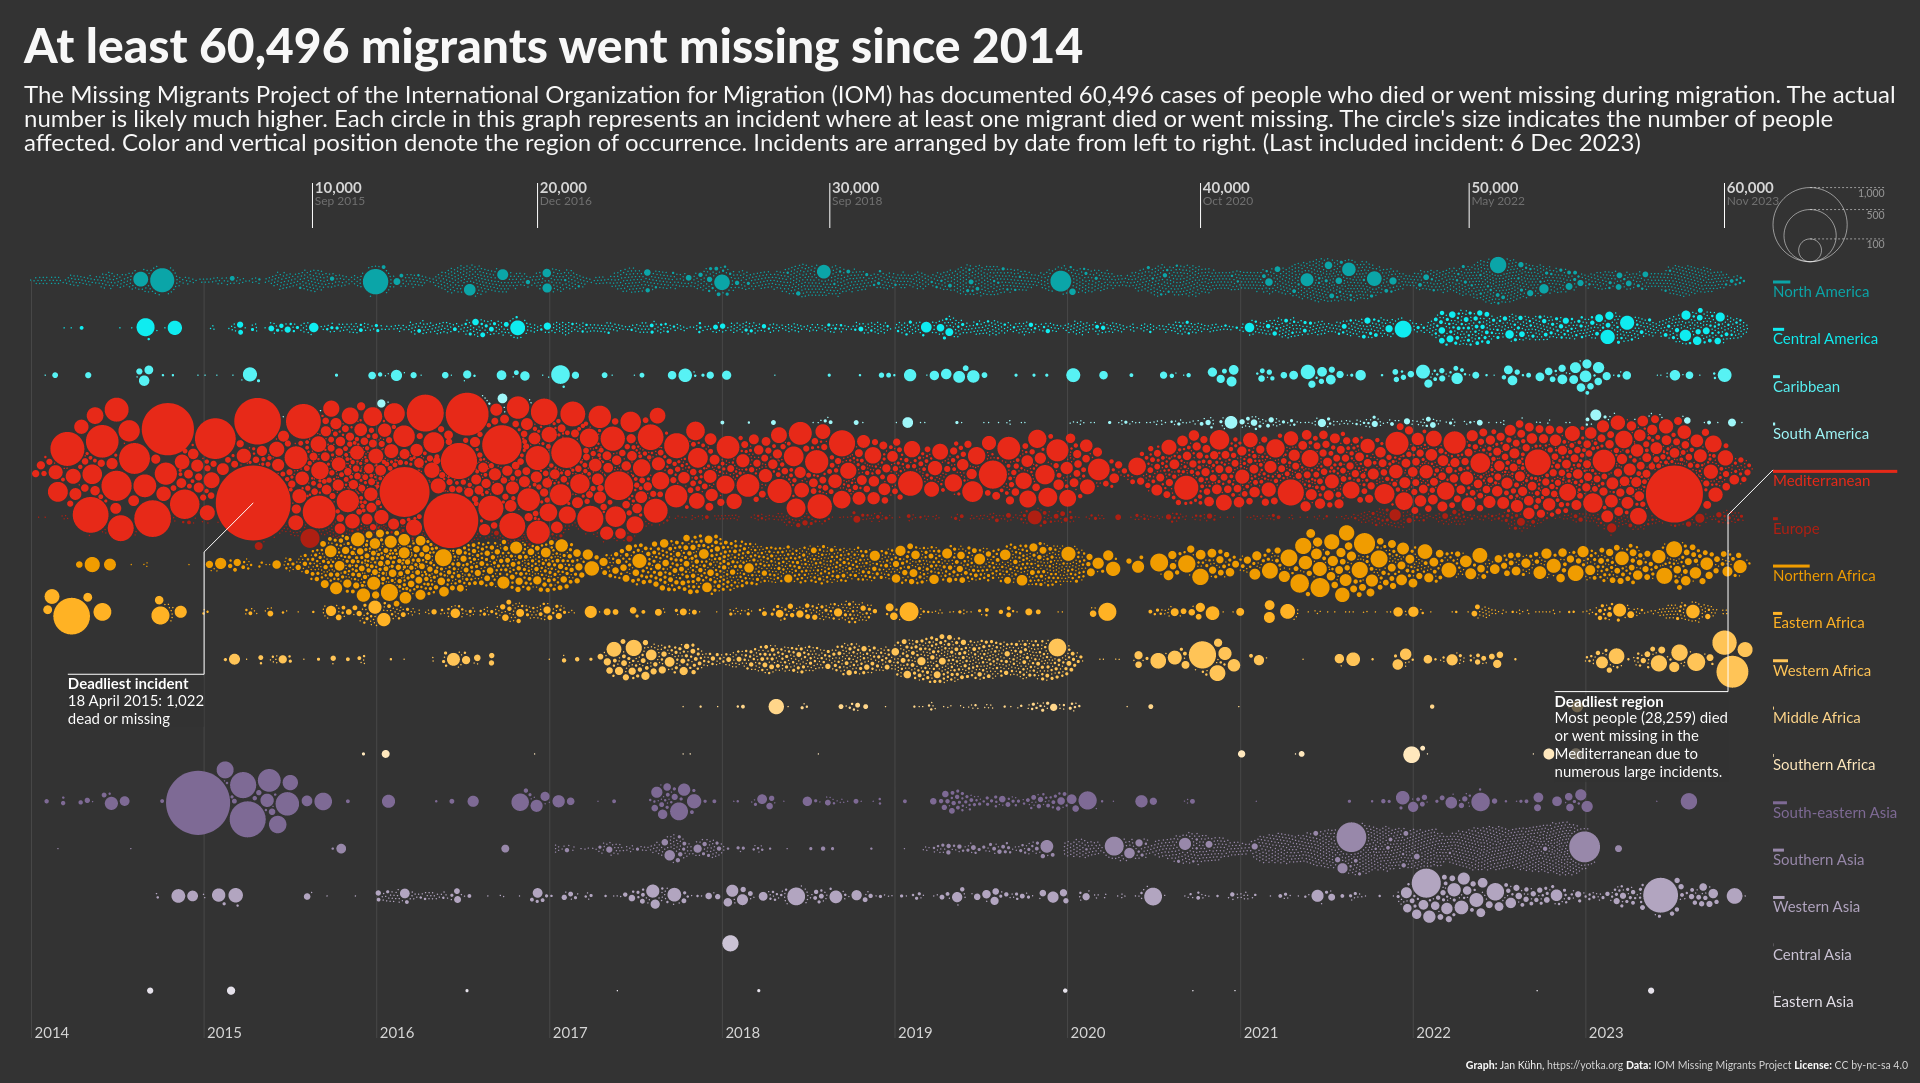
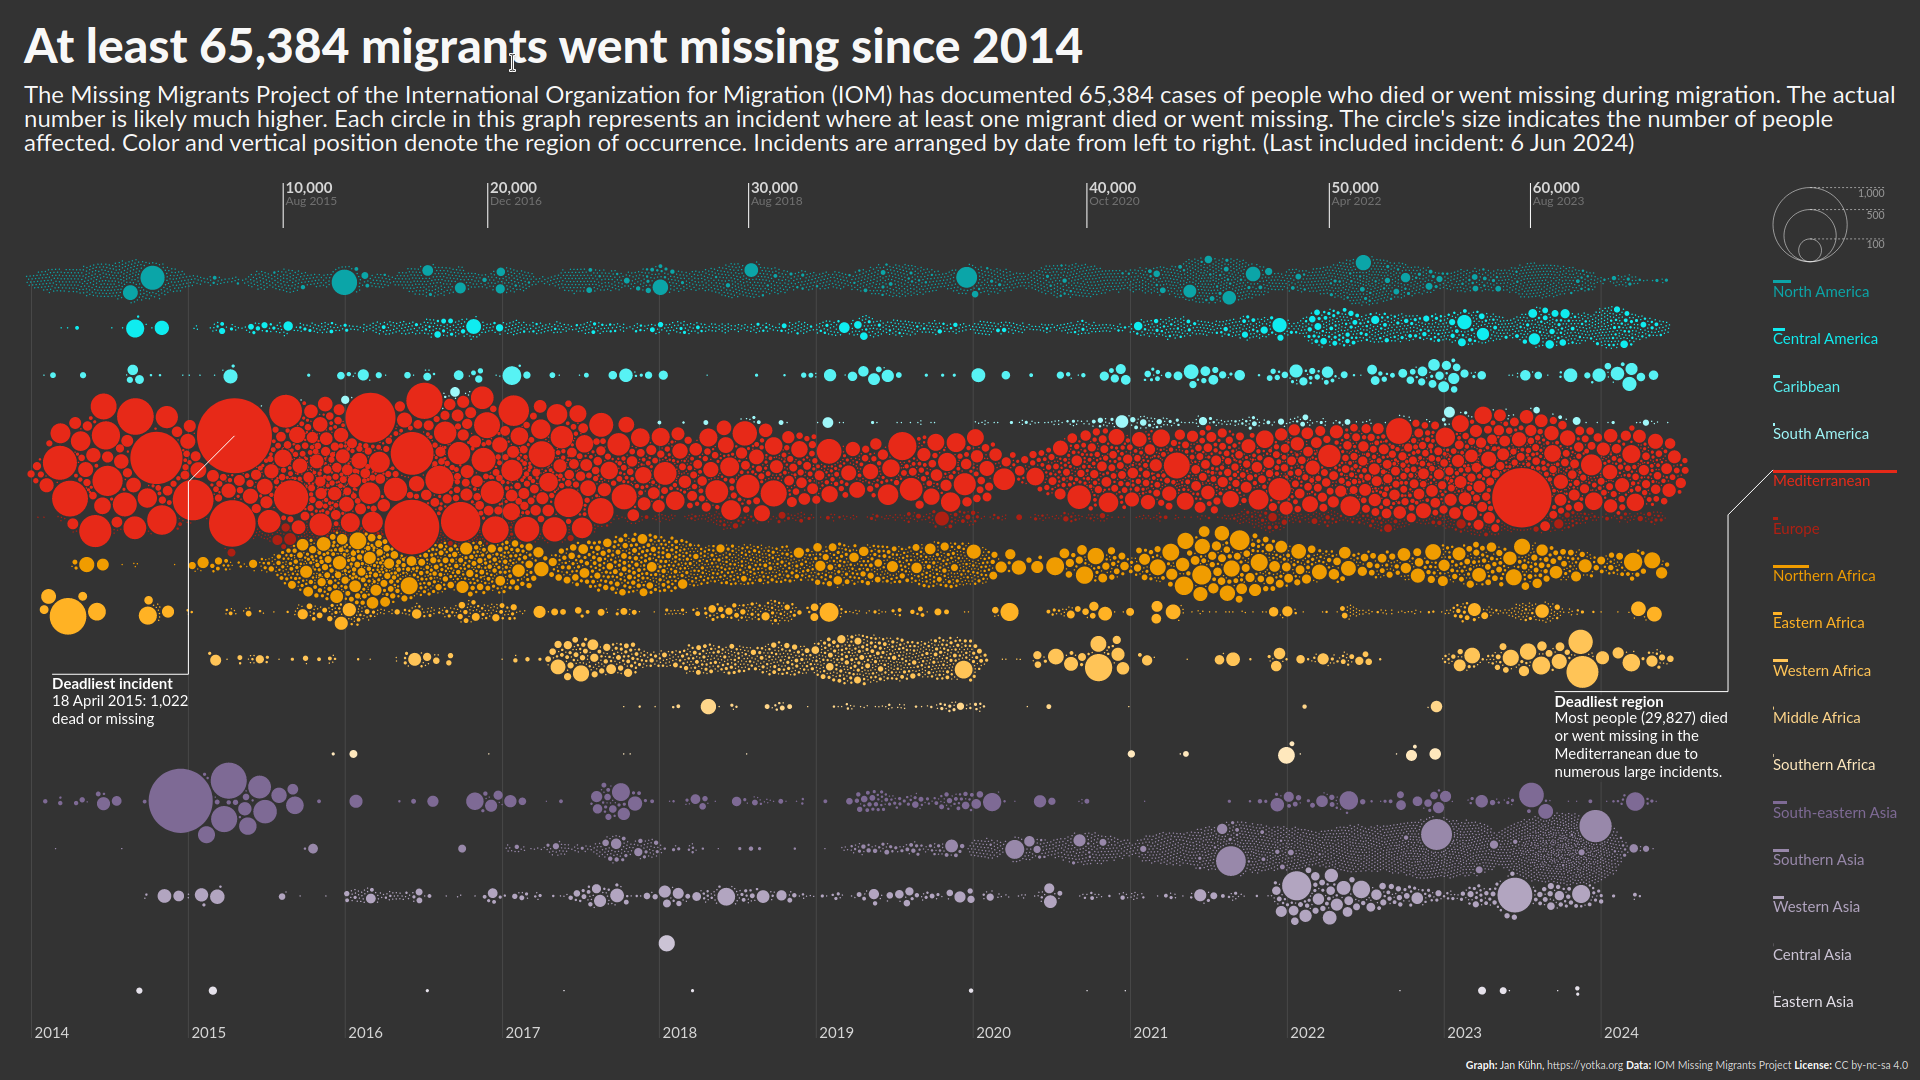
Update to latest numbers

diff --git a/README.md b/README.md
@@ -4,11 +4,11 @@
 
 ### Visualizing IOM data on people who went missing or lost their lives during migration
 
-Since 2014, the [**Missing Migrants Project**](https://missingmigrants.iom.int/) of the International Organization for Migration (IOM) has documented more than 60,000 people who died or went missing during migration (as of Dec 6 2023: 60,496). The actual number is likely much higher.
+Since 2014, the [**Missing Migrants Project**](https://missingmigrants.iom.int/) of the International Organization for Migration (IOM) has documented more than 65,000 people who died or went missing during migration (as of Jun 6 2024: 65,384). The actual number is likely much higher.
 
 This repository contains the code for a visualization made with **Svelte** and **d3** of that horrendous number. Each circle in this graph represents one of more than 13,000 incidents from the IOM database where at least one migrant died or went missing. The circle's size indicates the number of people affected. Color and vertical position denote the region of occurrence.
 
-The Mediterranean has by far been the region where most deaths and disappearances have been documented: More than 28,000.
+The Mediterranean has by far been the region where most deaths and disappearances have been documented: More than 29,000.
 
 ### Data
 
